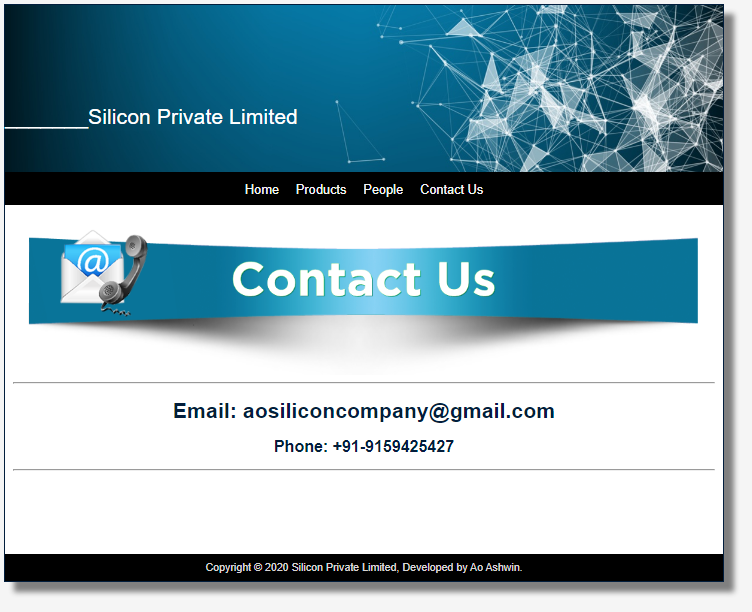
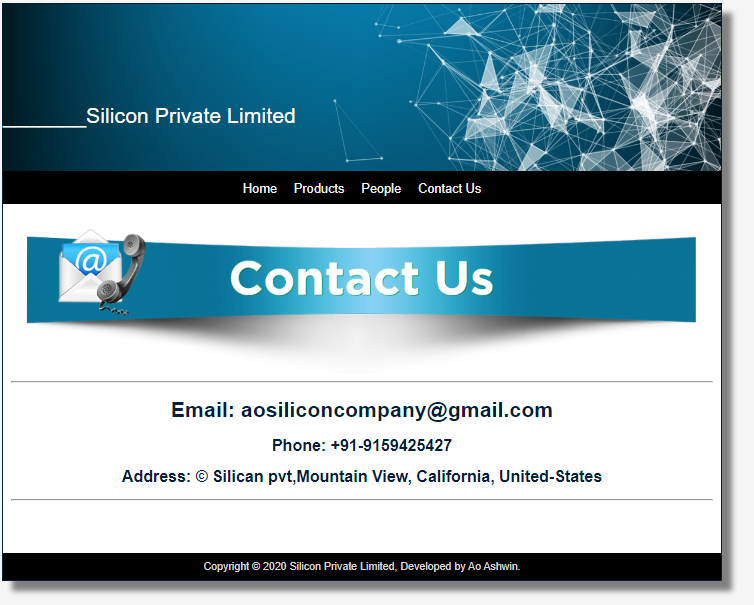
aoashwin

diff --git a/website/templates/website/contactus.html b/website/templates/website/contactus.html
@@ -10,6 +10,7 @@
         <hr/>
         <div class="contactemail"><h1>Email: aosiliconcompany@gmail.com</h1></div>
         <div class="contactphone"><h2>Phone: +91-9159425427</h2></div>
+        <div class="contactphone"><h2>Address: © Silican pvt,Mountain View, California, United-States</h2></div>
         <hr/>
     </div>
 

diff --git a/README.md b/README.md
@@ -281,6 +281,7 @@ Publish the website in the given URL.
         <hr/>
         <div class="contactemail"><h1>Email: aosiliconcompany@gmail.com</h1></div>
         <div class="contactphone"><h2>Phone: +91-9159425427</h2></div>
+        <div class="contactphone"><h2>Address: © Silican pvt,Mountain View, California, United-States</h2></div>
         <hr/>
     </div>
 
@@ -303,5 +304,6 @@ Publish the website in the given URL.
 ![output](./static/img/validpeople.png)
 
 ![output](./static/img/validcontactus.png)
+
 ## RESULT:
 Thus a website is designed for the chip manufacturing company and is hosted in the URL http://aoashwin.student.saveetha.in:8000/. HTML code is validated.
